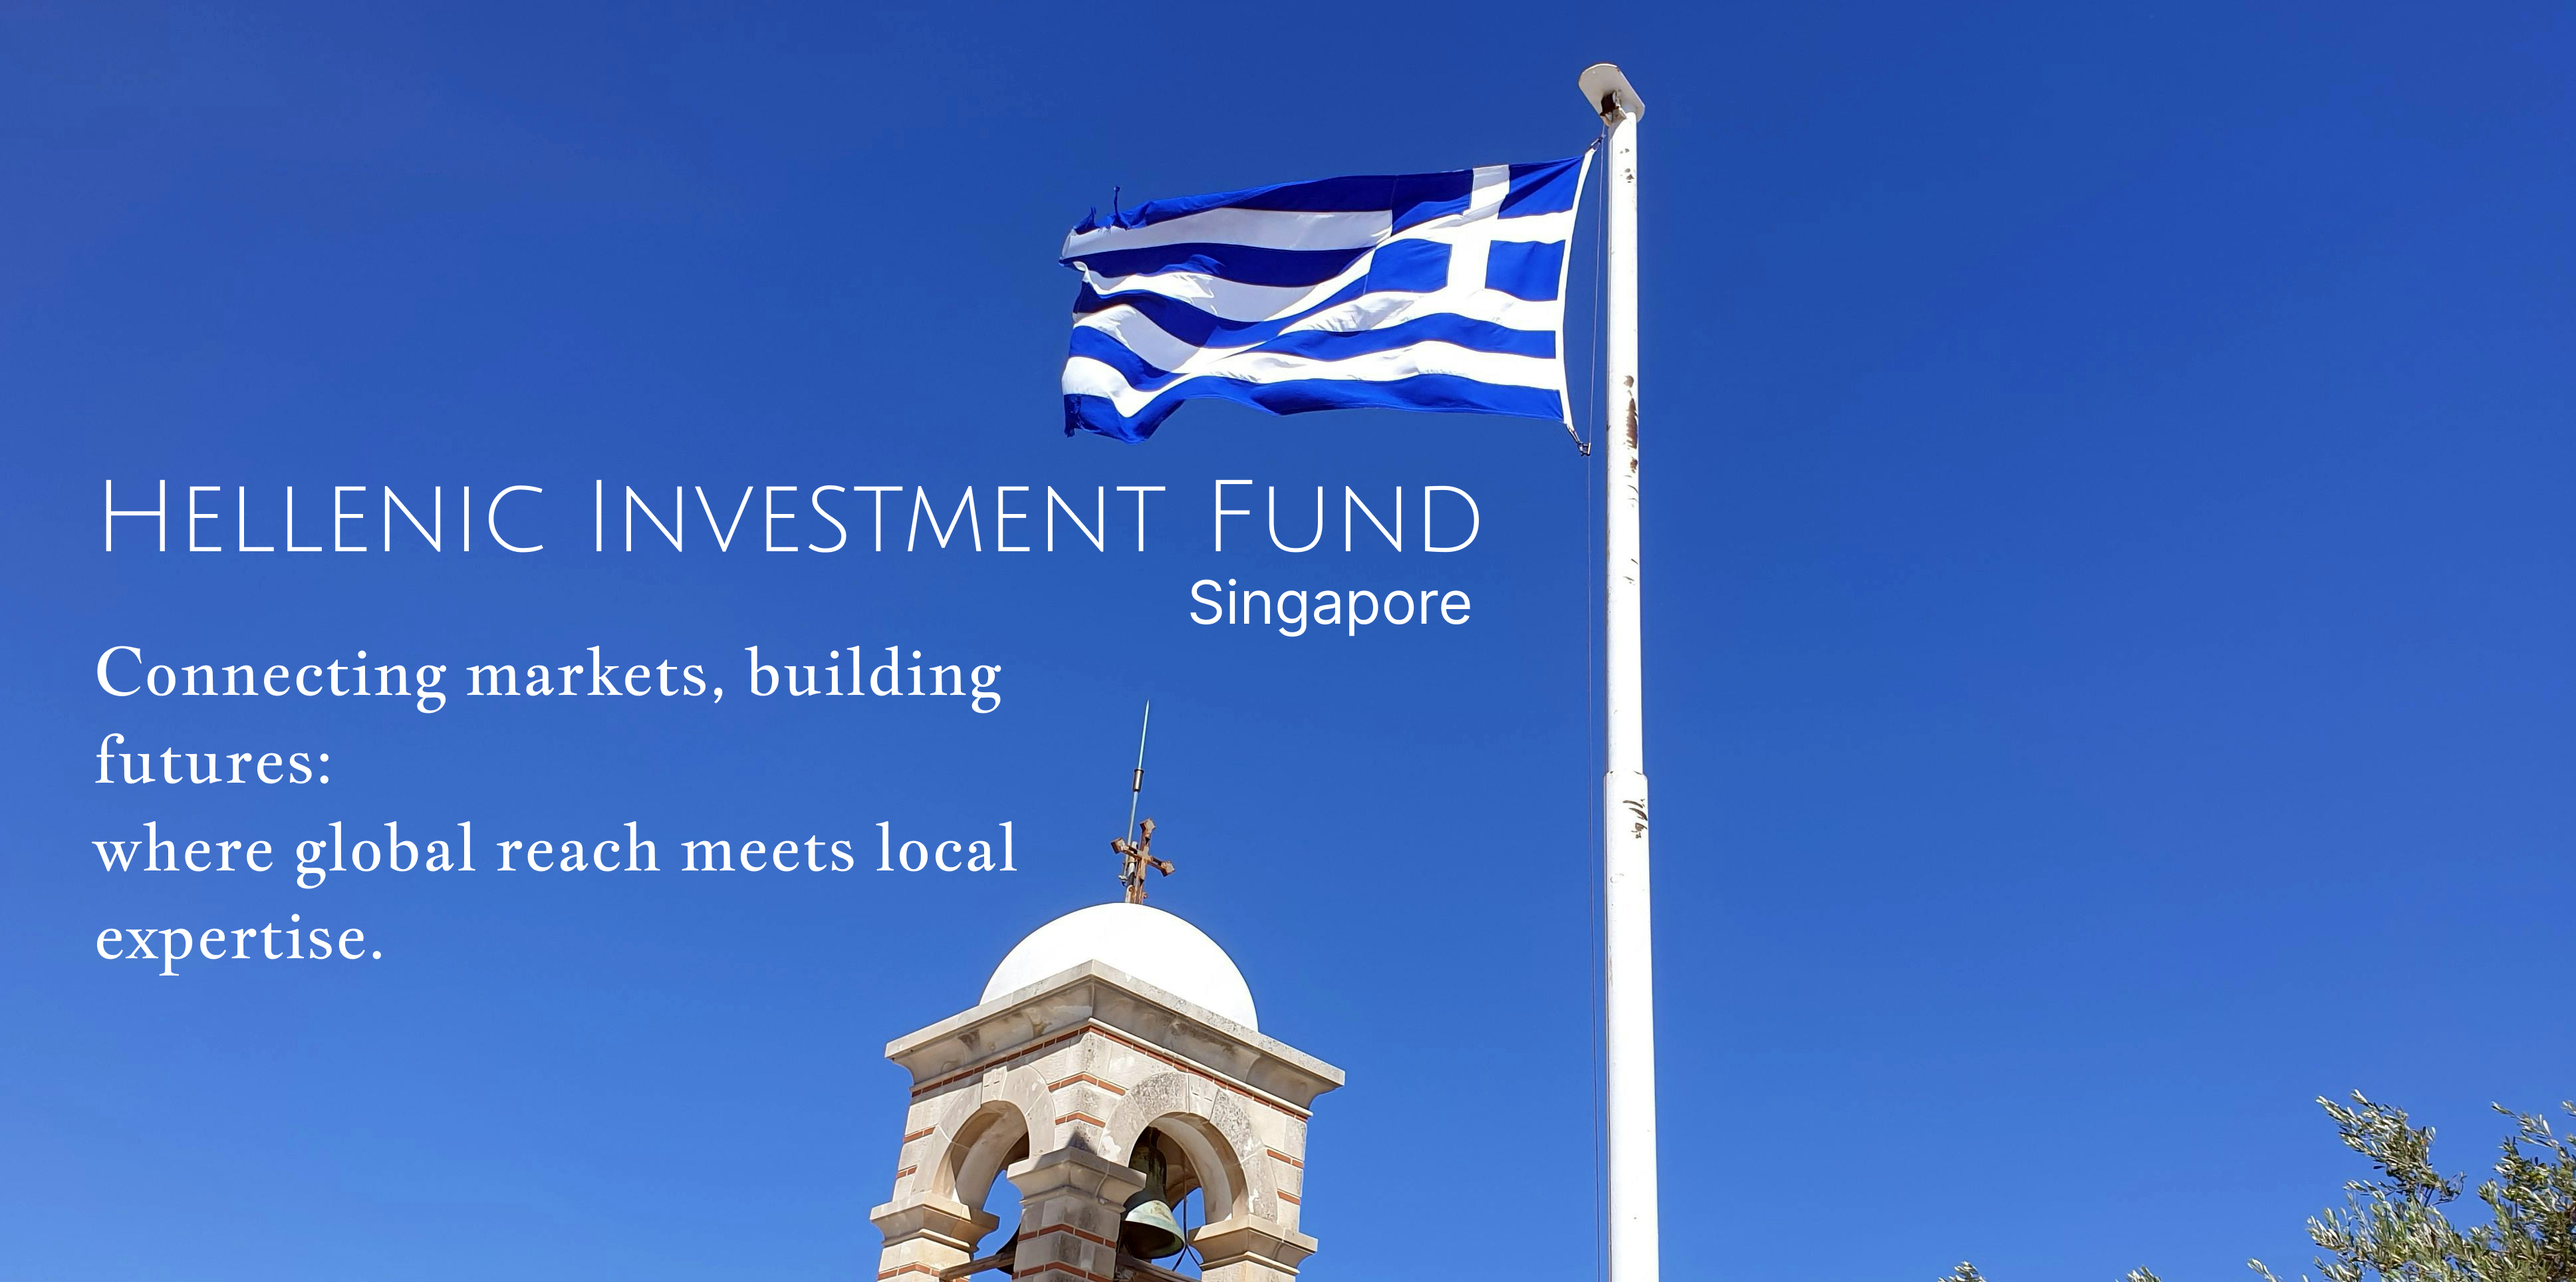
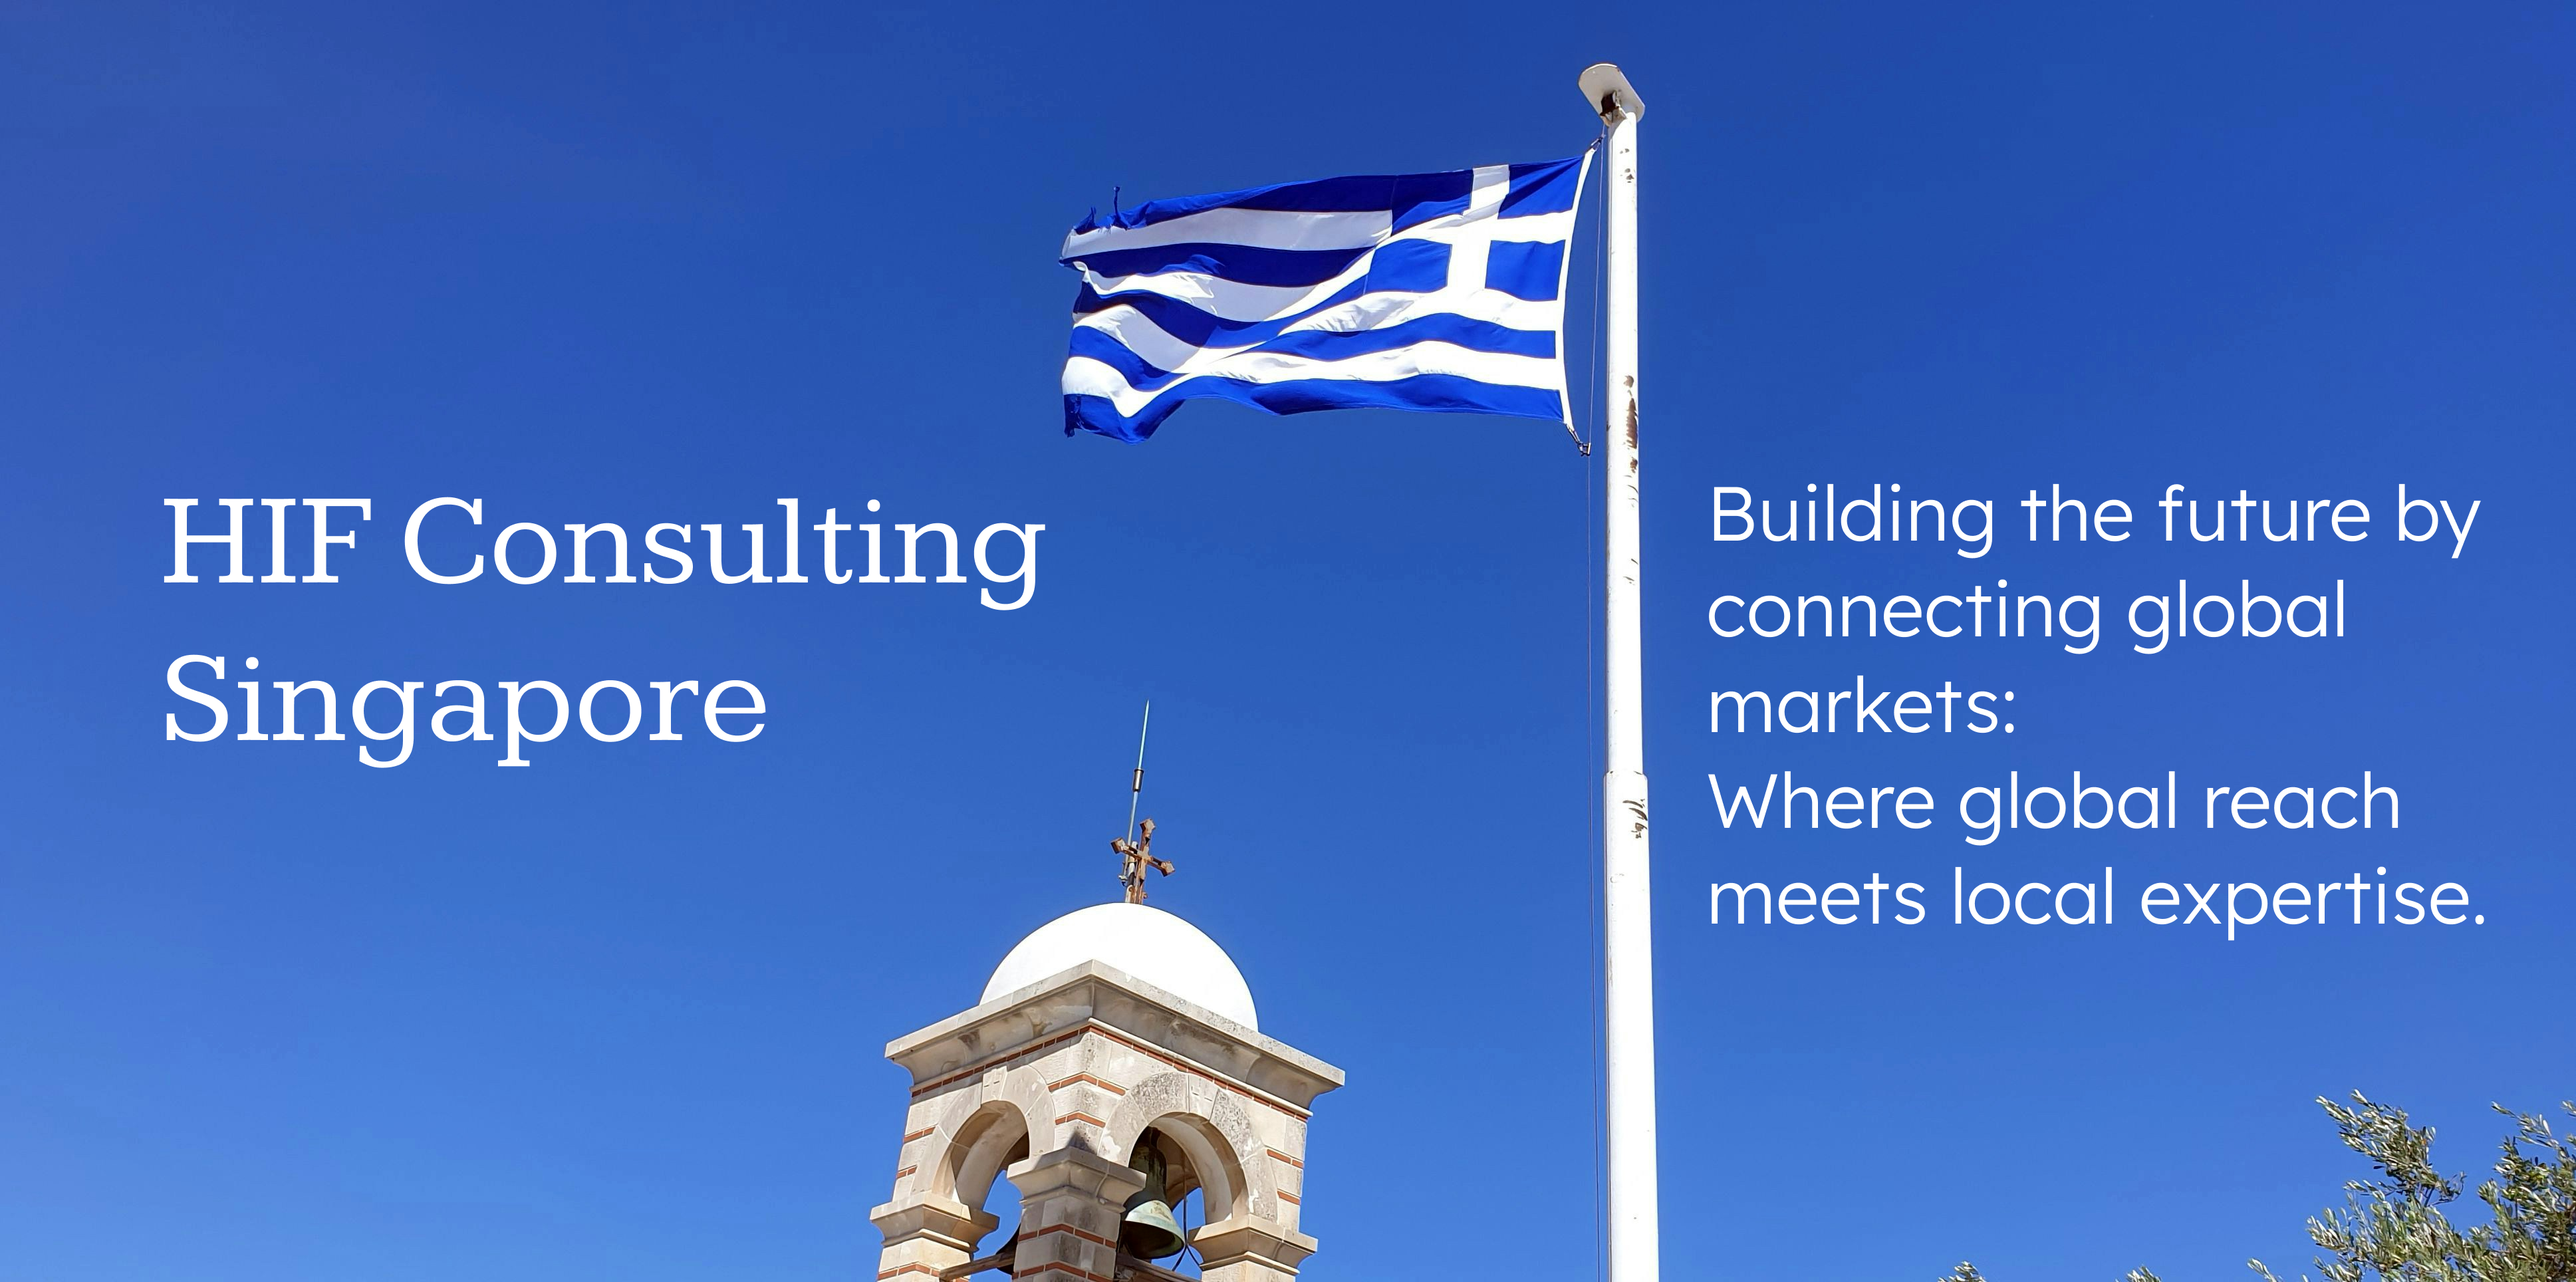
edit content

diff --git a/src/Careers.js b/src/Careers.js
@@ -29,44 +29,33 @@ function Careers() {
         ]
     };
     return (
-        <div id="real-estate">
+        <div id="real-estate" className="pt-5 pb-8">
             <div className="p-8">
-                <h1 className="text-4xl w-[240px] pb-3" style={{borderBottom: '5px solid #021d68'}}>HIF Real Estate</h1>
+                <h1 className="text-4xl md:w-[350px] w-[215px] pb-3" style={{borderBottom: '5px solid #021d68'}}>Golden Visa Investment Consulting</h1>
                 <p className="pt-3 pb-5">
                     <ul>
-                        <li>Developing real estate cash projects like student residence in Athens, Greece, to cater to investors participating in the Greek Golden Visa program.</li>
+                        <li>As a real estate developer, HIF develops real estate cash projects like student residence in Athens, Greece, to cater to investors participating in the Greek Golden Visa program.</li>
                         <li>Selecting prime project locations with easy access to business and academic hubs to deliver strong and sustainable ROI as well as maximize financial benefits for investors over the long haul.</li>
                         <li>Developing value projects such as luxury family apartments, serviced apartments and hotels, providing an exceptional living experience for our partners and investors.</li>
+                        <li>As a consulting firm, HIF Consulting Singapore Pte Ltd, helps HIF clients navigate the best property for Golden Visa investment for their families.</li>
                     </ul>
                 </p>
-                <h2 className="pt-5 text-xl pb-2 w-[190px]" style={{borderBottom: '5px solid #021d68'}}>Some of Our Projects</h2>
+                <h2 className="pt-5 text-xl pb-2 md:w-[250px] w-[205px]" style={{borderBottom: '5px solid #021d68'}}>Some of Hellenic Investment Fund Projects</h2>
                 <p className="pt-3 pb-5">
-                    Our premium real estate projects, handpicked for their unbeatable locations and designed with renters in mind. Whether you're looking for easy access to public transportation, vibrant local communities, or proximity to key amenities, our properties offer unparalleled convenience. Each project is thoughtfully developed to provide an effortless rental experience, ensuring tenants enjoy both comfort and accessibility. Invest in a space where location meets lifestyle, making renting simpler, faster, and more enjoyable. Secure your future today with HIF—your gateway to prime living.
+                    HIF premium real estate projects, handpicked for their unbeatable locations and designed with renters in mind. Whether you're looking for easy access to public transportation, vibrant local communities, or proximity to key amenities, our properties offer unparalleled convenience. Each project is thoughtfully developed to provide an effortless rental experience, ensuring tenants enjoy both comfort and accessibility. Invest in a space where location meets lifestyle, making renting simpler, faster, and more enjoyable. Secure your future today with HIF—your gateway to prime living.
                 </p>
                 <Slider {...settings}>
                 {
                     Listings.map((property) => {return (
-                        <div key={property.id} className='pl-3 pr-3 pb-3 pt-2 flex items-center justify-center'>
-                            <div className='flex justify-center rounded-t-xl pt-5' style={{backgroundColor: '#e0e0eb'}}>
-                                <img src={property.image} className="h-[300px]" style={{borderRadius: '7%'}} />
+                        <div key={property.id} className='pr-3 pt-2 flex items-center justify-center'>
+                            <div className='flex justify-center rounded-t-xl pt-5' style={{backgroundColor: '#FFFF'}}>
+                                <img src={property.image} className="h-[370px]" style={{borderRadius: '0%'}} />
                             </div>
-                            <div className="p-2 text-center" style={{backgroundColor: '#e0e0eb'}}>
+                            <div className="p-2 text-center" style={{backgroundColor: '#FFFF'}}>
                                 <h2 className="text-3xl">{property.name}</h2>
                             </div>
-                            <div style={{backgroundColor: '#e0e0eb'}} className="rounded-b-xl h-[550px]">
-                                <h2 className="pt-3 pl-5 text-2xl">{property.location}</h2>
-                                <ul className="pb-3 pt-2 pl-5 pr-2 text-xl">
-                                    <li>{property.sp1}</li>
-                                    <li>{property.sp2}</li>
-                                    <li>{property.sp3}</li>
-                                    {property.sp4 == "" ? <li>&nbsp;</li> : <li>{property.sp4}</li>}
-                                    {property.sp5 == "" ? <li>&nbsp;</li> : <li>{property.sp5}</li>}
-                                    {property.sp6 == "" ? <li>&nbsp;</li> : <li>{property.sp6}</li>}
-                                    {property.sp7 == "" ? <li>&nbsp;</li> : <li>{property.sp7}</li>}
-                                    {property.sp8 == "" ? <li>&nbsp;</li> : <li>{property.sp8}</li>}
-                                    {property.sp9 == "" ? <li>&nbsp;</li> : <li>{property.sp9}</li>}
-                                    {property.sp10 == "" ? <li>&nbsp;</li> : <li>{property.sp10}</li>}
-                                </ul>
+                            <div style={{backgroundColor: '#FFFF'}} className="rounded-b-xl">
+                                <h2 className="pl-5 text-2xl pb-5 text-center">{property.location}</h2>
                             </div>
                         </div>
                     )})

diff --git a/src/Business.js b/src/Business.js
@@ -1,5 +1,5 @@
 import React from "react";
-import trading from './images/trading.png';
+import trading from './images/EU.png';
 import cargo from './images/logistic.png';
 import building from './images/real-estate.png';
 import nav from './images/nav.png';
@@ -8,16 +8,16 @@ import './css/Business.css';
 function Business() {
     return (
         <div id='business' className="p-5" style={{backgroundColor: '#021d68'}}>
-            <h1 className="text-4xl text-white pl-5 pr-5 pt-5 pb-7">Our businesses</h1>
+            <h1 className="text-4xl text-white ml-3 pr-5 pt-5 pb-3 w-[205px]" style={{borderBottom: '5px solid #FFFF'}}>What we do</h1>
             <div className="business">
                 <div className="box">
                     <img src={trading} alt="trading-icon"/>
-                    <h1 className="text-white text-center text-2xl">Investment</h1>
-                    <p>We invest in a wide range of assets, including real estates, stocks, ETFs, startups, and commodities such as aluminum, copper, steel, and select agricultural products. Our diversified portfolio allows us to meet the varied needs of our clients while maintaining a strong presence in global markets.</p>
+                    <h1 className="text-white text-center text-2xl">Golden Visa Immigration Investment Consulting</h1>
+                    <p>At HIF Consulting Singapore Pte Ltd., we are dedicated to guiding you through each step of your investment journey toward a secure and prosperous future. With a specialized focus on Golden Visa programs, we provide expert consulting that simplifies the immigration process while maximizing investment potential in some of the world's most desirable markets. Discover the advantages of global mobility and secure investments with a partner who puts your success at the heart of everything we do.</p>
                 </div>
                 <div className="box">
                     <img src={building} alt="building-icon"/>
-                    <h1 className="text-white text-center text-2xl">Real Estate Development</h1>
+                    <h1 className="text-white text-center text-2xl">Real Estate Investment Consulting</h1>
                     <p>
                         Positioning and developing real estate projects in Athens, Greece, to cater to international investors participating in the Greek Golden Visa program.
                         <br />
@@ -35,7 +35,7 @@ function Business() {
                 </div>
                 <div className="box">
                     <img src={nav} alt="navigation-icon"/>
-                    <h1 className="text-white text-center text-2xl">Consulting</h1>
+                    <h1 className="text-white text-center text-2xl">Education Consulting</h1>
                     <p>
                         Our team of experts offers tailored advice on risk management, market analysis, and operational efficiency, ensuring that businesses are equipped with the insights and tools necessary for sustainable growth. Whether optimizing procurement processes or identifying new market opportunities, our consulting services are designed to deliver long-term value and success.
                     </p>

diff --git a/src/components/Navbar.js b/src/components/Navbar.js
@@ -32,7 +32,7 @@ function Navbar() {
                         <Link to='business' spy={true} smooth={true} offset={-110} duration={500} onClick={closeMenu}>What we do</Link>
                     </li>
                     <li className='nav-item'>
-                        <Link to='real-estate' spy={true} smooth={true} offset={-110} duration={500} onClick={closeMenu}>Real Estate</Link>
+                        <Link to='real-estate' spy={true} smooth={true} offset={-110} duration={500} onClick={closeMenu}>Real Estate & Golden Visa</Link>
                     </li>
                     <li className='nav-item'>
                         <Link to='import-export' spy={true} smooth={true} offset={-110} duration={500} onClick={closeMenu}>Import Export</Link>

diff --git a/src/About.js b/src/About.js
@@ -9,7 +9,7 @@ function About() {
             <div className="paragraph">
                 <div>
                 <video muted autoPlay loop playsInline>
-                    <source src="https://hif-greece.s3.ap-northeast-1.amazonaws.com/PROJECT.mp4" type="video/mp4" />
+                    <source src="https://hif-greece.s3.ap-northeast-1.amazonaws.com/WEB.mp4" type="video/mp4" />
                 </video>
                 </div>
 
@@ -25,7 +25,7 @@ function About() {
                     </p>
                 </div>
             </div>
-
+            
         </div>
     )
 }

diff --git a/src/components/Footer.js b/src/components/Footer.js
@@ -22,7 +22,7 @@ function Footer() {
                         <a href='#business'>What we do</a>
                     </li>
                     <li className='nav-item'>
-                        <a href='#real-estate'>Real Estate</a>
+                        <a href='#real-estate'>Real Estate & Golden Visa</a>
                     </li>
                     <li className='nav-item'>
                         <a href='#import-export'>Import Export</a>

diff --git a/src/css/Business.css b/src/css/Business.css
@@ -1,7 +1,8 @@
 .business {
     display: grid;
     grid-template-columns: 25% 25% 25% 25%;
-    padding-bottom: 2.5%;
+    padding-bottom: 4.5%;
+    padding-top: 3%;
 }
 
 .box {
@@ -33,6 +34,8 @@
     width: 40%;
     position: relative;
     left: 30%;
+    padding-top: 2%;
+    padding-bottom: 3%;
 }
 
 @media only screen and (max-width: 1045px) {
